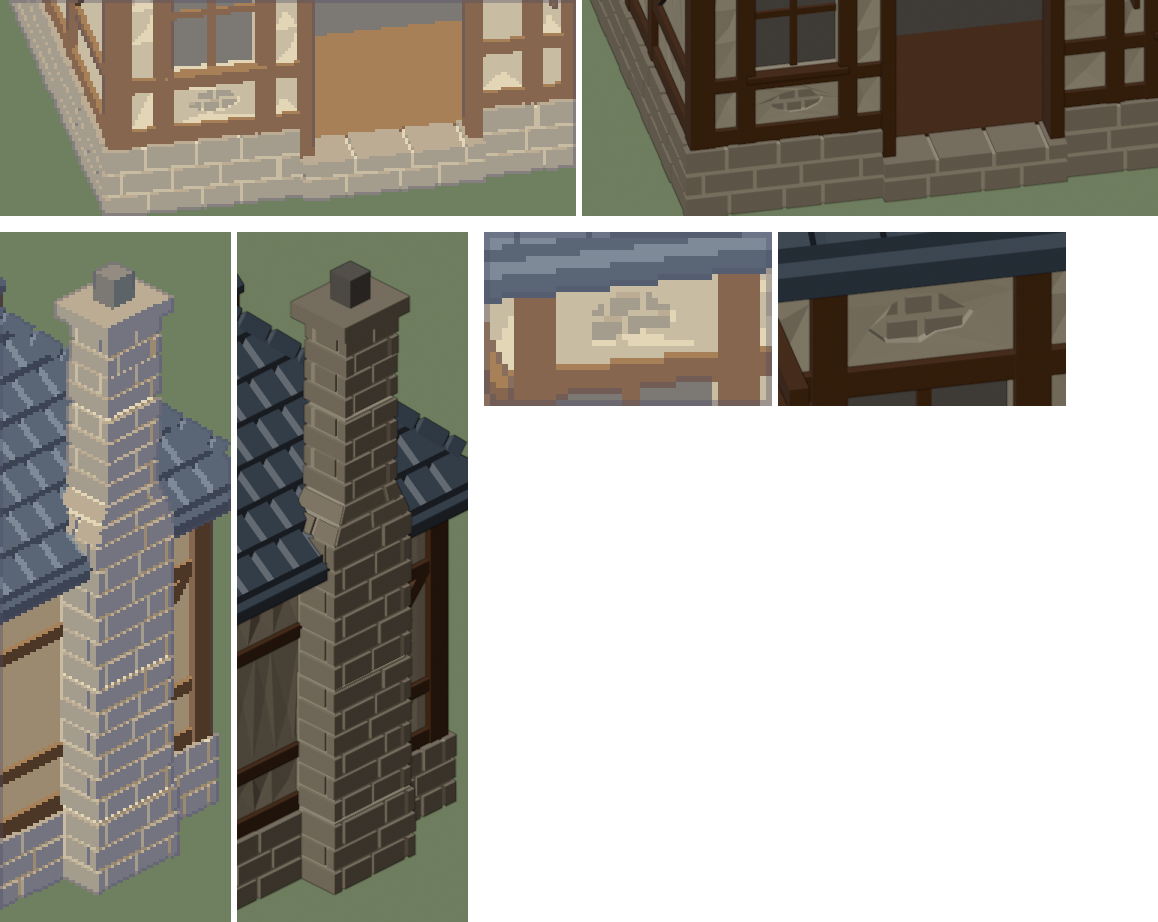
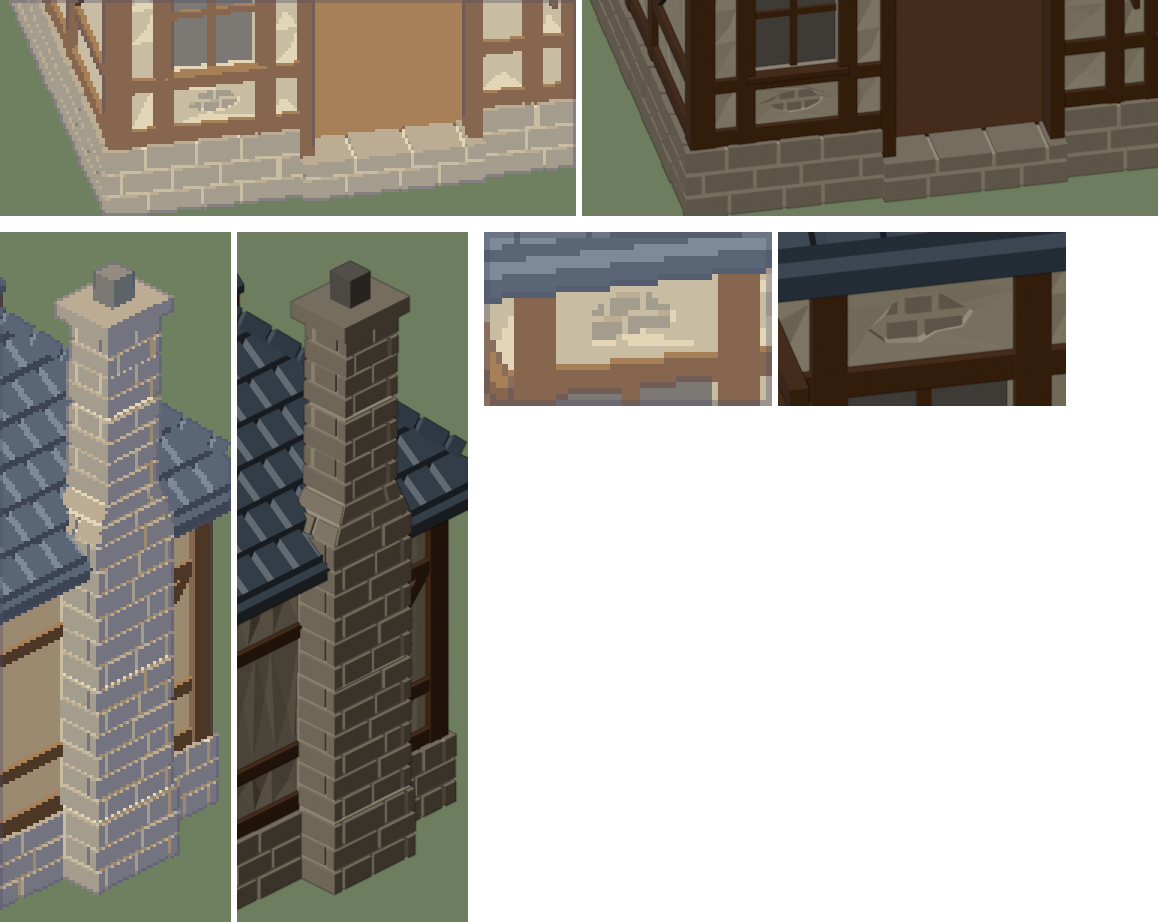
tavern-dark-hall assets: tavern_exterior revision 6, the vestibule becomes a dark hall
- tavern_exterior.glb: the Vestibule node's Dirt back wall is deleted. Its
  Wood floor and both Dirt side walls now run back to the rear wall's
  inside face, at local z -6.05 (measured from Walls). The node has 36
  triangles.
- The other 11 nodes are byte-identical to HEAD (POSITION, NORMAL, index
  bytes, material and transform).
- build_tavern_exterior.py: adds hall_checks; the headroom checks now
  cover the whole hall; adds the tavern_exterior_hall.png preview.
- Previews regenerated (the main and masonry sheets change only in the
  doorway). The roof preview is unchanged.
- docs/tasks/tavern-dark-hall/assets.md records the revision.

Changed region(s): [[0.2487, 0.0, 0.4041, 0.0607], [0.7772, 0.0, 0.9016, 0.0607]]

diff --git a/tools/blender/build_tavern_exterior.py b/tools/blender/build_tavern_exterior.py
@@ -14,6 +14,9 @@ Run headless (builds, checks, exports, then renders the preview beside the glb):
     threshold and a spalled patch from the default camera, the chimney from
     the front-right, and one spalled patch close up - each beside a smooth
     render of the same crop.
+    tavern_exterior_hall.png beside it (revision 6): the hall through the
+    doorway from the default camera (24 px/m toon and smooth), and a
+    cutaway from above with the roof hidden.
 
 Or step by step in an open Blender, to watch it go together:
     import runpy; tx = runpy.run_path(".../build_tavern_exterior.py", run_name="tavern")
@@ -39,8 +42,10 @@ each joint, its two faces turned more than 40 degrees from the tile, the
 joints of each course half a tile along from the course below's, so the
 engine's crease ink draws a line on every joint as well as every course lip. The doorway
 is empty - the door model (build_tavern_door.py) hangs there - and opens on
-a short dark vestibule (Dirt walls, Wood floor) so the open door shows an
-inside rather than the back of the walls.
+a dark hall (Dirt side walls, Wood floor) that runs back to the rear wall's
+inside face, so the open door shows a floor running into the building
+rather than the back of the walls (revision 6: the vestibule's Dirt back
+wall is gone; the game darkens the hall).
 
 Axes and origin (Blender): the door faces -Y (+Z in the engine). The origin
 is the middle of the doorway's threshold - centred across the doorway and
@@ -64,6 +69,7 @@ OUT = os.path.join(OUT_DIR, "tavern_exterior.glb")
 PREVIEW = os.path.join(OUT_DIR, "tavern_exterior.png")
 ROOF_PREVIEW = os.path.join(OUT_DIR, "tavern_exterior_roof.png")
 MASONRY_PREVIEW = os.path.join(OUT_DIR, "tavern_exterior_masonry.png")
+HALL_PREVIEW = os.path.join(OUT_DIR, "tavern_exterior_hall.png")
 COLLECTION = "Tavern_Exterior"
 
 
@@ -128,7 +134,7 @@ WINDOWS = {
     "right": [(0.9, 2.1)],
 }
 DOORWAY = (-DOOR_W / 2 - JAMB, DOOR_W / 2 + JAMB)  # the hole the jambs and door fill, on the front
-VESTIBULE = (-1.9, 1.9, 3.0)        # x0, x1 and the back wall's face (y)
+VESTIBULE = (-1.9, 1.9, PY1 - WALL_T)  # x0, x1 and the hall's back (y): the rear wall's inside face (revision 6; was 3.0)
 # Roof (revision 3: slate). The eave line and underside are revision 2's.
 EAVE_OUT = 0.55
 EAVE_LOW, EAVE_TOP = 4.35, 4.6      # the slate eave's underside and the top of its edge
@@ -177,6 +183,7 @@ BRACKET_Z = 4.05
 TRI_BUDGET = 14000                  # revision 5 (revision 4: 8,000)
 PLINTH_SIZE = (9.0, 7.0)            # checked
 MIN_VESTIBULE = 2.5                 # checked: the trigger zone's depth
+HALL_TRI_BUDGET = 100               # revision 6: the Vestibule node stays under this
 MIN_SIGN_TO_JAMB = 0.3              # checked: the sign's nearest part to the jamb's outer edge
 # Revision 3's roof rules (checked): everything the new roof adds stays inside
 # revision 2's eaves in plan, its top at most MAX_RISE above revision 2's
@@ -230,7 +237,7 @@ PATCH_FACING = 0.5                  # checked: the wall's normal . the way to th
 ROOF_PARTS = ["Roof", CROSS_GABLE["name"]] + [d["name"] for d in DORMERS]
 # Engine rectangles (assets.md / scene.cpp kTavernDoorway, kTavernVestibule) in Blender (x0, x1, y0, y1).
 DOORWAY_RECT = (-1.1, 1.1, -0.85, 0.25)
-VESTIBULE_RECT = (-1.9, 1.9, 0.25, 3.0)
+VESTIBULE_RECT = (-1.9, 1.9, 0.25, PY1 - WALL_T)  # revision 6: the whole hall (was y 0.25 to 3.0)
 
 
 def wall_point(wall, s, v, z):
@@ -1214,8 +1221,9 @@ class Builder:
 
     def doorway(self):
         """The door's frame (Wood jambs and head, through the wall), and the
-        vestibule behind it: a Wood floor and dark Dirt walls, open to the
-        doorway, deep enough for the door to swing 100 degrees inward."""
+        hall behind it (the `Vestibule` node): a Wood floor and two dark Dirt
+        side walls, open to the doorway, running back to the rear wall's
+        inside face, which closes it (revision 6: no back wall of its own)."""
         part = Part("Doorway")
         dl, dr = DOORWAY
         yo, yi = PY0 - (POST_PROUD - PROUD) - PROUD, PY0 + WALL_T  # proud as the posts; the wall's inside face
@@ -1227,9 +1235,8 @@ class Builder:
         vest = Part("Vestibule")
         vx0, vx1, vy1 = VESTIBULE
         vest.box((vx0, yi, -0.1), (vx1, vy1, 0.0), "Wood")
-        vest.box((vx0 - 0.2, yi, 0.0), (vx0, vy1 + 0.2, PLATE_TOP - 0.2), "Dirt")
-        vest.box((vx1, yi, 0.0), (vx1 + 0.2, vy1 + 0.2, PLATE_TOP - 0.2), "Dirt")
-        vest.box((vx0, vy1, 0.0), (vx1, vy1 + 0.2, PLATE_TOP - 0.2), "Dirt")
+        vest.box((vx0 - 0.2, yi, 0.0), (vx0, vy1, PLATE_TOP - 0.2), "Dirt")
+        vest.box((vx1, yi, 0.0), (vx1 + 0.2, vy1, PLATE_TOP - 0.2), "Dirt")
         vest.finish(self.coll)
 
     # ---- roof -------------------------------------------------------------
@@ -1600,10 +1607,47 @@ def check(b):
         problems.append(f"chimney top {CHIMNEY_TOP} is less than 1 m above the roof ({roof_at:.2f})")
     problems += roof_checks(b)
     problems += tile_checks(b)
+    problems += hall_checks(b)
     mp, b.masonry_summary = masonry_checks(b)
     rp, b.render_summary = render_checks(b)
     problems += mp + rp
     return problems, total, per, lo, hi
+
+
+def hall_checks(b):
+    """Revision 6's hall (the Vestibule node):
+    - its back (VESTIBULE[2]) is the rear wall's inside face, measured from
+      the Walls mesh behind the hall;
+    - the Wood floor (top y 0) and both Dirt side walls reach that face;
+    - no back wall: nothing of it inside x -1.9..1.9 above the floor;
+    - under HALL_TRI_BUDGET triangles."""
+    problems = []
+    eps = 1e-5
+    vx0, vx1, vy1 = VESTIBULE
+    walls = bpy.data.objects["Walls"].data.vertices
+    behind = [v.co.y for v in walls if v.co.y > (Y0 + Y1) / 2 and vx0 - 0.2 - eps <= v.co.x <= vx1 + 0.2 + eps]
+    face = min(behind)
+    if abs(face - vy1) > eps:
+        problems.append(f"the hall's back is y {vy1:.3f}, but the rear wall's inside face is y {face:.3f}")
+    vest = bpy.data.objects["Vestibule"]
+    mesh = vest.data
+    vs = [v.co for v in mesh.vertices]
+    if abs(max(v.y for v in vs) - face) > eps:
+        problems.append(f"the hall reaches y {max(v.y for v in vs):.3f}, not the rear wall's {face:.3f}")
+    for mat, x0, x1 in (("Wood", vx0, vx1), ("Dirt", vx0 - 0.2, vx0), ("Dirt", vx1, vx1 + 0.2)):
+        mi = [m.name for m in mesh.materials].index(mat)
+        reach = max((mesh.vertices[i].co.y for p in mesh.polygons if p.material_index == mi
+                     for i in p.vertices if x0 - eps <= mesh.vertices[i].co.x <= x1 + eps), default=-1e9)
+        if abs(reach - face) > eps:
+            problems.append(f"the hall's {mat} at x {x0}..{x1} reaches y {reach:.3f}, not {face:.3f}")
+    for v in vs:
+        if vx0 + eps < v.x < vx1 - eps and v.z > eps:
+            problems.append(f"Vestibule: a vertex over the hall floor at {tuple(round(c, 3) for c in v)} (no back wall)")
+            break
+    n = triangles(vest)
+    if n >= HALL_TRI_BUDGET:
+        problems.append(f"Vestibule: {n} triangles, budget under {HALL_TRI_BUDGET}")
+    return problems
 
 
 def masonry_checks(b):
@@ -2311,6 +2355,55 @@ def render_masonry_preview(b):
     print("wrote", MASONRY_PREVIEW)
 
 
+def render_hall_preview(b):
+    """tavern_exterior_hall.png (revision 6): the hall through the doorway.
+    Top: the doorway from the game's default camera (as the dark-hall
+    capture sees it), 24 px/m toon (3x) beside a smooth render - with no
+    door and no darkening, so the floor and side walls show plainly.
+    Bottom: the same yaw from 60 degrees down with the roof, gables and
+    dormers hidden, so the whole hall shows inside the shell."""
+    import numpy as np
+
+    top = game_crop((0.0, 1.2, 1.9), 6.0, 4.5, DEFAULT_VIEW_YAW, 3, "h_doorway")
+    scene = bpy.context.scene
+    hidden = [bpy.data.objects[n] for n in ROOF_PARTS]
+    for o in hidden:
+        o.hide_render = True
+    W, H = top.shape[1], 720
+    scene.render.resolution_x, scene.render.resolution_y = W, H
+    cam_data = bpy.data.cameras.new("h_cutaway")
+    cam_data.type = "ORTHO"
+    cam_data.ortho_scale = 12.0 * W / H if W > H else 12.0
+    cam = bpy.data.objects.new("h_cutaway", cam_data)
+    scene.collection.objects.link(cam)
+    scene.camera = cam
+    yaw, pitch = math.radians(DEFAULT_VIEW_YAW), math.radians(60)
+    fwd = Vector((math.sin(yaw) * math.cos(pitch), -math.cos(yaw) * math.cos(pitch), -math.sin(pitch)))
+    cam.location = Vector((0.3, 3.0, 1.5)) - fwd * 80
+    cam.rotation_euler = fwd.to_track_quat("-Z", "Y").to_euler()
+    path = os.path.join(os.path.dirname(HALL_PREVIEW), "_h_cutaway.png")
+    scene.render.filepath = path
+    bpy.ops.render.render(write_still=True)
+    bpy.data.objects.remove(cam)
+    bpy.data.cameras.remove(cam_data)
+    for o in hidden:
+        o.hide_render = False
+    img = bpy.data.images.load(path)
+    low = np.empty(W * H * 4, dtype=np.float32)
+    img.pixels.foreach_get(low)
+    bpy.data.images.remove(img)
+    os.remove(path)
+    low = low.reshape(H, W, 4)
+    sheet = np.concatenate([low, np.ones((16, W, 4), dtype=np.float32), top], axis=0)  # rows bottom-up
+    out = bpy.data.images.new("tavern_exterior_hall", W, sheet.shape[0])
+    out.pixels.foreach_set(sheet.astype(np.float32).ravel())
+    out.filepath_raw = HALL_PREVIEW
+    out.file_format = "PNG"
+    out.save()
+    bpy.data.images.remove(out)
+    print("wrote", HALL_PREVIEW)
+
+
 def export():
     os.makedirs(OUT_DIR, exist_ok=True)
     bpy.ops.export_scene.gltf(
@@ -2346,6 +2439,7 @@ def main():
         render_preview(b)
         print(f"tavern_exterior: roof preview ink: {render_roof_preview(b)}")
         render_masonry_preview(b)
+        render_hall_preview(b)
 
 
 if __name__ == "__main__" and bpy.app.background:

diff --git a/docs/tasks/tavern-dark-hall/assets.md b/docs/tasks/tavern-dark-hall/assets.md
@@ -1,0 +1,77 @@
+# Assets: dark hall behind the tavern door
+
+**All coordinates are in engine coordinates: +Y up, +Z = Blender -Y, 1 unit = 1 metre, relative to the asset's own origin, before the code places it.** Hero scale (1.6× real), as before. The build script prints these figures from the constants it builds with.
+
+Rebuild headless. The build constructs the asset, runs its checks, exports, and renders the previews. It fails if any check fails.
+
+```
+/Applications/Blender.app/Contents/MacOS/Blender -b -P tools/blender/build_tavern_exterior.py
+```
+
+As in the earlier tavern tasks, the script is the source of truth and there is no `.blend` source. The build ran headless in a separate Blender process. The user's live Blender session was not touched.
+
+Before the change, the HEAD script (`8edf83b`) was rebuilt into a scratch directory. Its glb was `cmp`-identical to the committed `tavern_exterior.glb`, so the new glb's differences come only from this revision.
+
+**How "unchanged" was verified.** The new glb was parsed against HEAD's (`git show 8edf83b:assets/scenes/tavern_exterior.glb`) node by node. For every primitive, the raw POSITION, NORMAL and index accessor bytes, the index type, any other attributes and the material name were compared byte for byte. The node's translation, rotation, scale and matrix were compared too.
+- `Foundation`, `Walls`, `Timbers`, `Windows`, `Doorway`, `Roof`, `Chimney`, `Sign`, `Gable_Front`, `Dormer_Front` and `Dormer_Back` are **byte-identical**: the same POSITION, NORMAL and index bytes, the same material on each primitive, and the same transform.
+- Only `Vestibule` changed. Its transform is unchanged (identity).
+- The node set (12 nodes) and the glTF material order (Plaster, Stone, Dirt, Wood, Roof) are unchanged. There are still no animations, skins or extra attributes.
+- The glb was also re-imported into an empty Blender scene. All 12 objects load with the triangle counts and materials below. `Vestibule` spans x -2.1 to 2.1, y -0.1 to 4.4, z -6.05 to -0.25.
+
+---
+
+## tavern_exterior (revision 6)
+Source: tools/blender/build_tavern_exterior.py
+Export: assets/scenes/tavern_exterior.glb
+Preview:
+- `assets/scenes/tavern_exterior_hall.png` (new):
+  - **Top row:** the doorway from the game's default camera (yaw 167.5° in the tavern's own frame, 30° down, ortho). Left is a 24 px/m toon render with the day palette and outline, scaled 3×. Right is a smooth render of the same 6 × 4.5 m crop. There is no door and no darkening, so the floor shows plainly: it fills the opening to the head, and a sliver of the right side wall shows at the top right. There is no grey square.
+  - **Bottom:** the same yaw from 60° down with `Roof`, `Gable_Front` and the dormers hidden. It shows the whole hall running from the doorway to the rear wall.
+- `assets/scenes/tavern_exterior.png` (the four views, as before). Only the doorway in the default-camera panel changed (pixels x 344–443, y 413–485): the floor now shows where the back wall did.
+- `assets/scenes/tavern_exterior_masonry.png`. Only the top 35 rows of the plinth crop changed (the same doorway, both panels).
+- `assets/scenes/tavern_exterior_roof.png` was regenerated and came out byte-identical, so it is not in the commit.
+
+Format: glb, static (no skin)
+Units and scale: 1 unit = 1 metre, hero scale
+Axes: +Y up. The door faces +Z (Blender -Y). The frame is the same as revision 5.
+Origin: unchanged, at the middle of the doorway's threshold at floor level (y = 0).
+Triangles: **9,105** (budget 14,000). Revision 5 was 9,117.
+- `Vestibule` has **36** (under the 100 budget). Revision 5 had 48; the back wall's 12 are gone.
+- The rest are unchanged: Foundation 1,064, Walls 1,526, Timbers 516, Windows 360, Doorway 36, Roof 2,870, Gable_Front 679, Dormer_Front 403, Dormer_Back 403, Chimney 1,054, Sign 158.
+
+Materials, in glTF order: Plaster, Stone, Dirt, Wood, Roof. These are unchanged and there are no textures. `Vestibule` uses Wood (the floor) and Dirt (the side walls), as before.
+Nodes and objects: the same 12 nodes. `Vestibule` is the hall's Wood floor and two Dirt side walls. Its name is kept so the loader and the code need no change.
+Animations: none
+Revision: 6, 2026-10-28. The vestibule becomes a hall. Its Dirt back wall is deleted, and its Wood floor and both Dirt side walls run back to the rear wall's inside face. Nothing else changed.
+
+### The hall (the `Vestibule` node)
+- **Back depth: local z = -6.05** (exact; float32 in the glb is -6.0500002). This is the inside face of the exterior's rear wall.
+  - It was measured from `Walls`: the nearest rear-wall vertex behind the hall (x -2.1 to 2.1) is at z -6.05, and the wall's outer face is at z -6.47.
+  - In the script it is `PY1 - WALL_T` = 6.47 - 0.42.
+  - The `hall_checks` step in the build fails if the hall's back and the measured face ever differ.
+- **The hall is 5.8 m deep** behind the front wall's inside face, from z -0.25 to -6.05. Revision 5's vestibule was 2.75 m deep, z -0.25 to -3.0.
+- **Floor:** Wood, top at y 0 (slab y -0.1 to 0), x -1.9 to 1.9, z -0.25 to **-6.05**. It is still a plain slab, the same style as revision 5's floor (the task's "keep the existing floor's style"). It is not grooved: the region darkens it to 35% and less.
+- **Side walls:** Dirt, x -2.1 to -1.9 and 1.9 to 2.1, y 0 to **4.4**, z -0.25 to **-6.05**. Their inner faces are at x ±1.9, and their back ends butt against the rear wall's inside face.
+- **Back wall:** none. Nothing of `Vestibule` stands over the floor between x -1.9 and 1.9 (checked). The hall is closed at the back by `Walls`' inside face, which is Plaster, from y 0.45 up. Below that is `Foundation`'s Plaster mortar bed face, also at z -6.05, up to y 0.42.
+- **Headroom:** the build's headroom check now covers the whole hall (x -1.9 to 1.9, z -0.25 to -6.05). Nothing of `Foundation`, `Walls`, `Chimney`, the gables or the dormers is in it below y 3.3, and nothing of `Roof`, `Gable_Front` or the dormers comes down over it below y 3.3. Both pass. Nothing new stands over the doorway or the hall below y 3.3 except the floor and the side walls.
+- **The other figures are unchanged:** the doorway, the hinge at (-1.1, 0, -0.25), the footprint, eaves, chimney, sign and roof heights. The build prints them identically.
+
+### Build checks added (`hall_checks`)
+| Rule | Result |
+|---|---|
+| The hall's back (`VESTIBULE[2]`) equals the rear wall's inside face measured from `Walls` | Pass: z -6.05 |
+| The Wood floor and both Dirt side walls reach that face | Pass |
+| No `Vestibule` vertex over the floor inside x -1.9..1.9 (no back wall) | Pass |
+| `Vestibule` under 100 triangles | Pass: 36 |
+
+All revision 5 checks (masonry, render, roof, tiles, plinth, sign, chimney) still pass with the same figures.
+
+## Notes for the developer
+- **Dark region** (in the exterior's local frame, before `tavernPoint`/`kTavernYaw`):
+  - x -1.9 to 1.9, y 0 to 4.4.
+  - z from **-0.25** (the open face, the front wall's inside face) to **-6.05** (the back face, the rear wall's inside face).
+  - So the centre is (0, 2.2, -3.15), the half extents are (1.9, 2.2, 2.9), and the open face is +Z.
+- **`kTavernVestibule`:** extend it to x -1.9 to 1.9, z -6.05 to -0.25. No piece other than the floor and the hall's side walls is below y 3.3 over that rectangle (checked).
+- **Old back-wall line:** the deleted wall stood at x -1.9 to 1.9, z -3.0 to -3.2. Your invisible blocker goes there. The asset has nothing there now.
+- **Only `Vestibule`'s geometry changed.** It has the same node name and materials, so loading needs no change. `scene.ground` gets a longer Wood floor at y 0 and two longer Dirt walls up to 4.4 at x ±1.9 to ±2.1. Both lie inside the house's walls. The side walls are taller than headroom, so they stay in the ground map as walls along the hall, as before.
+- **What the doorway shows:** at the 30° pitch, the line from the door head (y 3.4) meets the rear wall at about y 0.05. So through the opening you see floor almost to the rear wall, with at most a pixel of its foot. The back windows (y 1.5 and up) and the side walls' tops can't be seen through the doorway.
